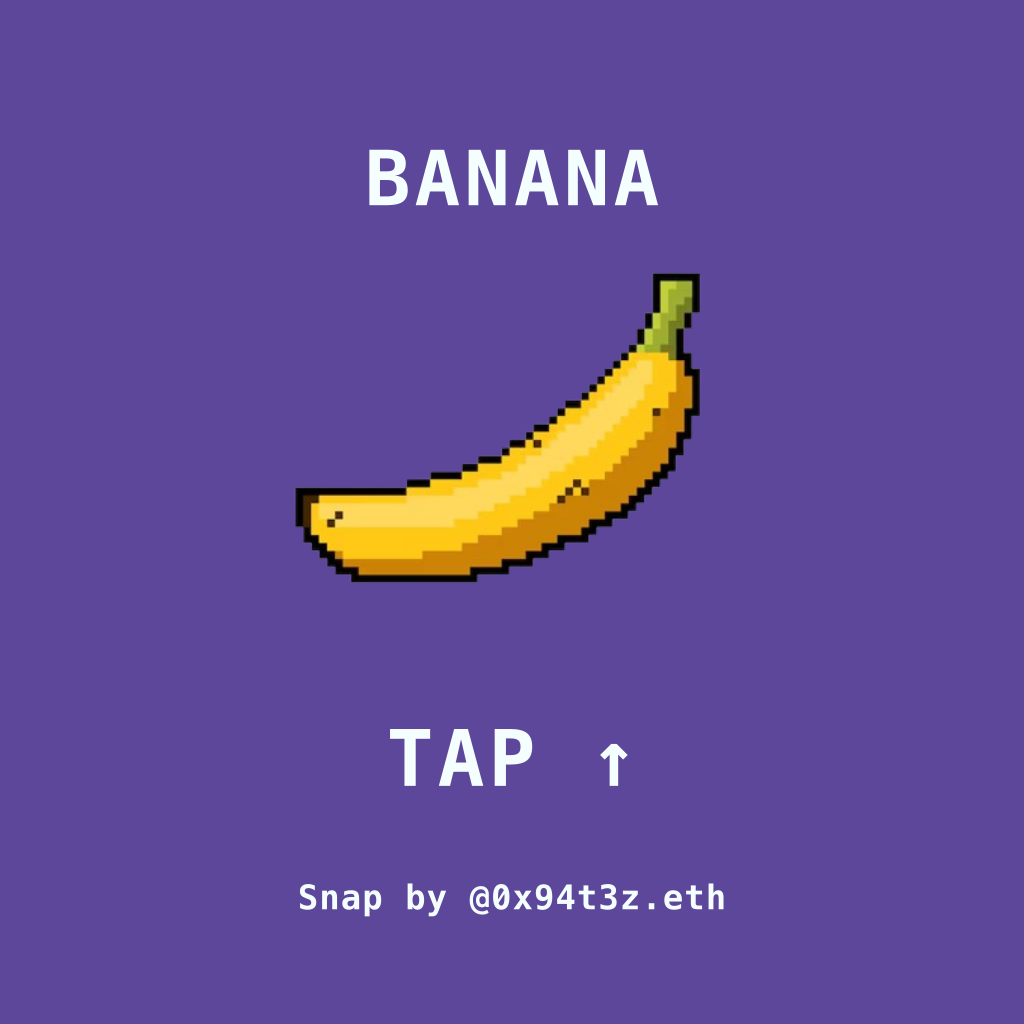
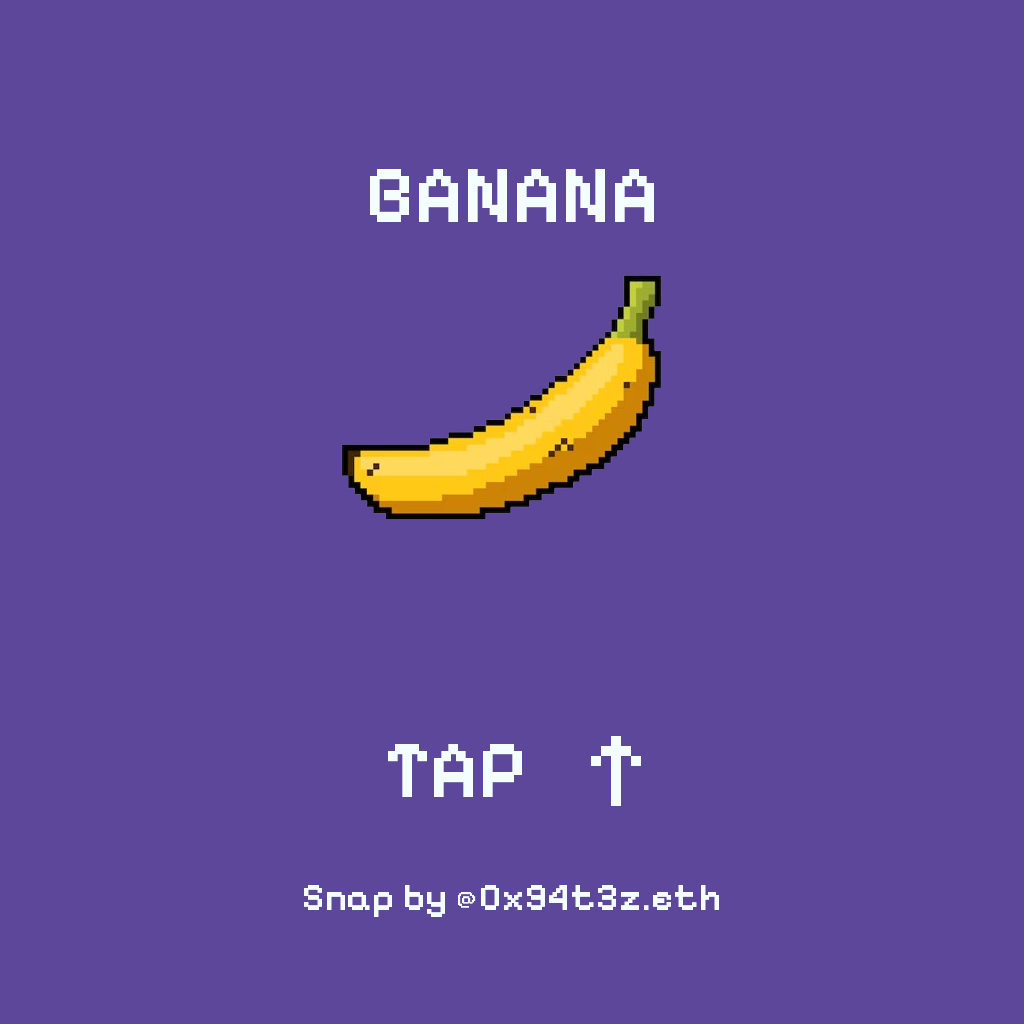
Generate hero with Pixelify Sans

diff --git a/scripts/generate-hero.py b/scripts/generate-hero.py
@@ -1,0 +1,84 @@
+from pathlib import Path
+
+from PIL import Image, ImageDraw, ImageFont
+
+ROOT = Path(__file__).resolve().parents[1]
+OUT = ROOT / "public/images/banana-hero.png"
+BANANA = ROOT / "public/images/bananas.png"
+FONT_400 = ROOT / "assets/fonts/pixelify-sans-400.ttf"
+FONT_600 = ROOT / "assets/fonts/pixelify-sans-600.ttf"
+
+W = 1024
+H = 1024
+PURPLE = (93, 71, 154)
+WHITE = (245, 254, 255)
+
+
+def draw_centered(draw: ImageDraw.ImageDraw, text: str, y: int, font: ImageFont.FreeTypeFont, spacing: int = 0) -> None:
+    bbox = draw.textbbox((0, 0), text, font=font)
+    text_w = bbox[2] - bbox[0]
+    x = (W - text_w) // 2
+    draw.text((x, y), text, font=font, fill=WHITE, spacing=spacing)
+
+
+def draw_up_arrow(draw: ImageDraw.ImageDraw, x: int, y: int, scale: int) -> None:
+    pixels = [
+        "00100",
+        "01110",
+        "10101",
+        "00100",
+        "00100",
+        "00100",
+        "00100",
+    ]
+    for row, line in enumerate(pixels):
+        for col, value in enumerate(line):
+            if value == "1":
+                draw.rectangle(
+                    [
+                        x + col * scale,
+                        y + row * scale,
+                        x + (col + 1) * scale - 1,
+                        y + (row + 1) * scale - 1,
+                    ],
+                    fill=WHITE,
+                )
+
+
+def draw_tap_with_arrow(draw: ImageDraw.ImageDraw, y: int, font: ImageFont.FreeTypeFont) -> None:
+    text = "TAP"
+    text_bbox = draw.textbbox((0, 0), text, font=font)
+    text_w = text_bbox[2] - text_bbox[0]
+    arrow_scale = 10
+    arrow_w = 5 * arrow_scale
+    gap = 64
+    total_w = text_w + gap + arrow_w
+    text_x = (W - total_w) // 2
+    arrow_x = text_x + text_w + gap
+    draw.text((text_x, y), text, font=font, fill=WHITE)
+    draw_up_arrow(draw, arrow_x, y + 16, arrow_scale)
+
+
+def main() -> None:
+    canvas = Image.new("RGBA", (W, H), (*PURPLE, 255))
+    draw = ImageDraw.Draw(canvas)
+
+    title_font = ImageFont.truetype(str(FONT_600), 82)
+    tap_font = ImageFont.truetype(str(FONT_600), 82)
+    credit_font = ImageFont.truetype(str(FONT_600), 38)
+
+    banana = Image.open(BANANA).convert("RGBA")
+    banana.thumbnail((520, 360), Image.Resampling.NEAREST)
+    banana_x = (W - banana.width) // 2
+    banana_y = 265
+
+    draw_centered(draw, "BANANA", 145, title_font)
+    canvas.alpha_composite(banana, (banana_x, banana_y))
+    draw_tap_with_arrow(draw, 720, tap_font)
+    draw_centered(draw, "Snap by @0x94t3z.eth", 875, credit_font)
+
+    canvas.convert("RGB").save(OUT)
+
+
+if __name__ == "__main__":
+    main()